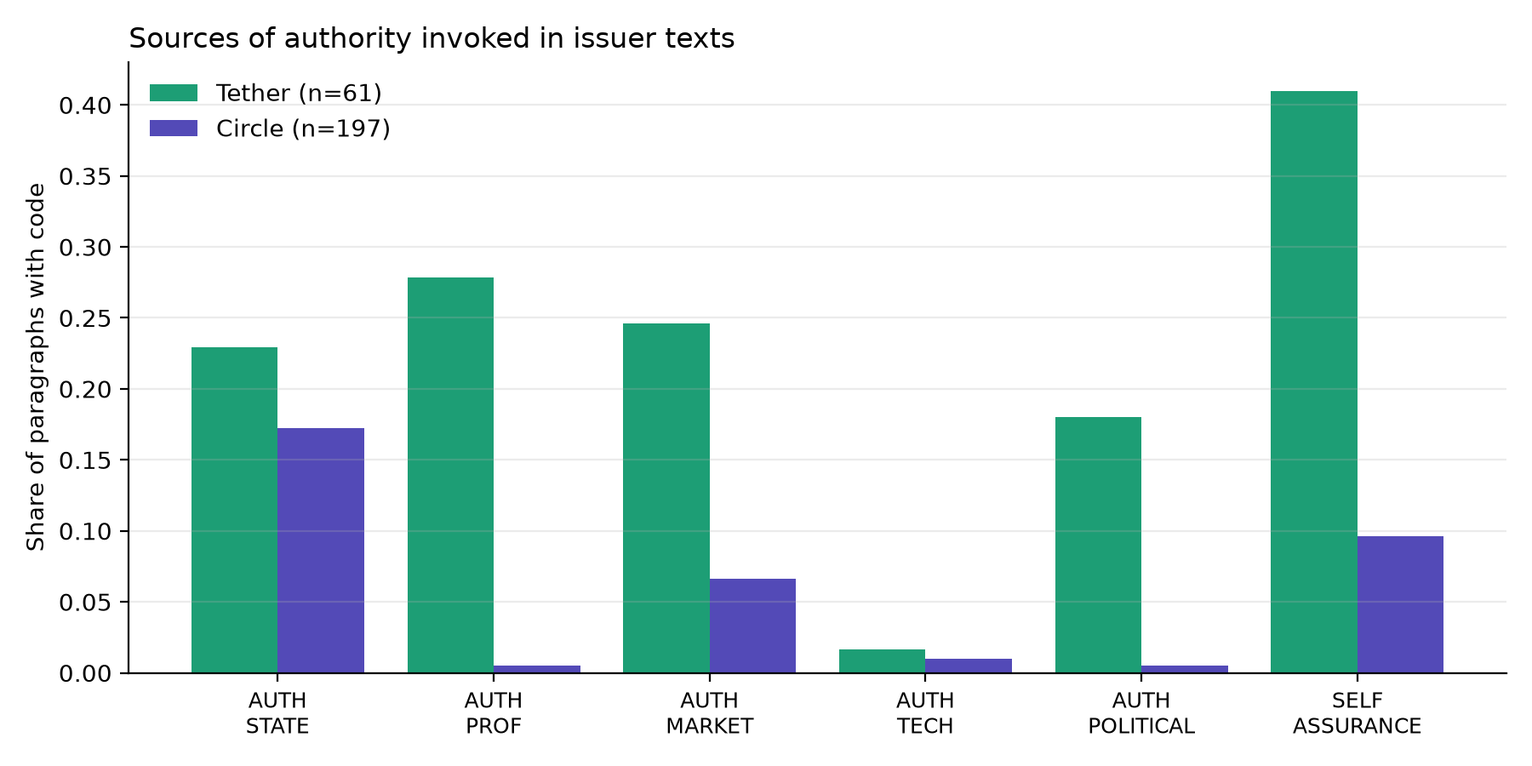
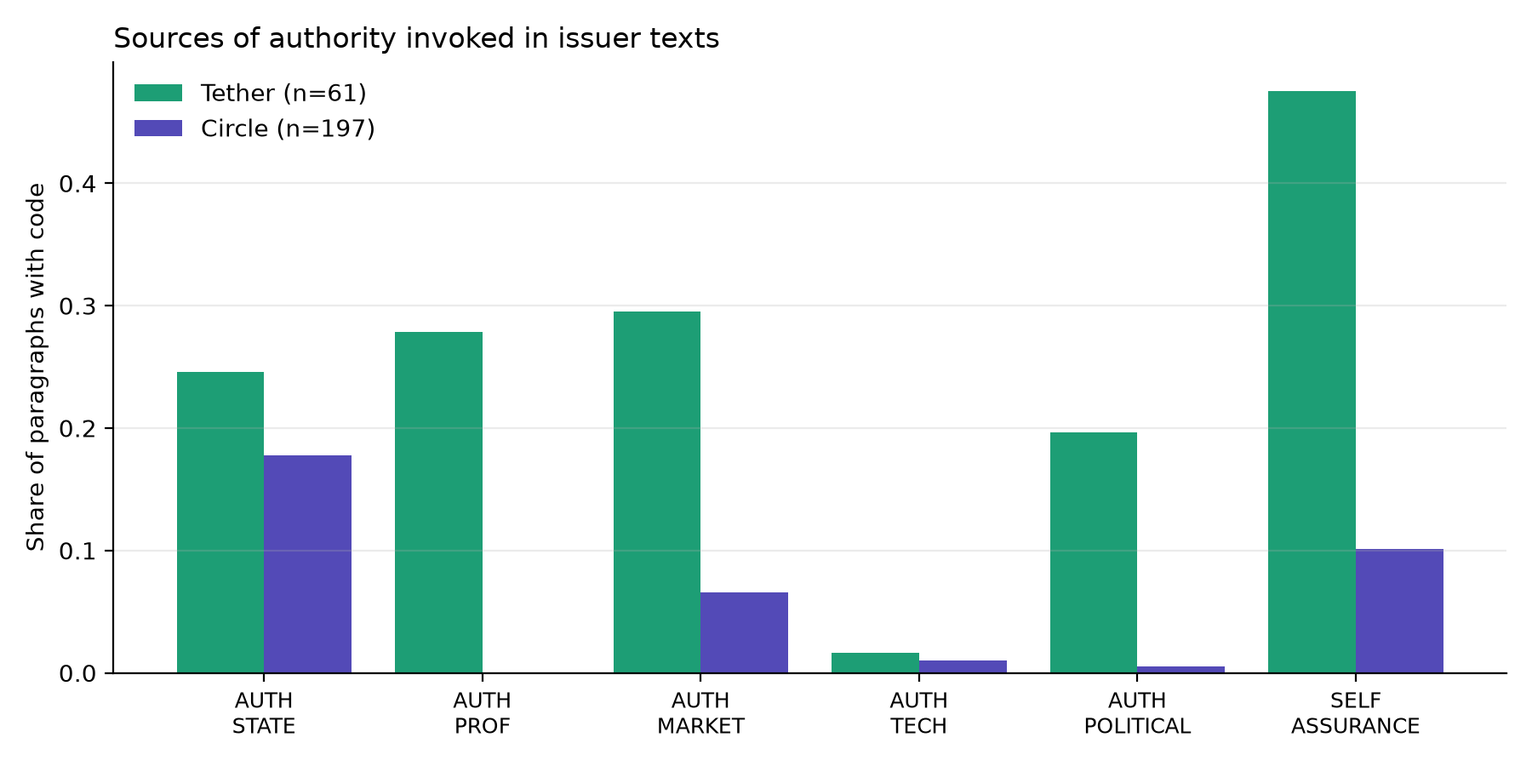
Analysis uses LLM codes for all segments; human codes validate only

diff --git a/scripts/06_analysis.py b/scripts/06_analysis.py
@@ -1,10 +1,11 @@
 """Step 6: descriptive analysis of the coded segments.
 
 Usage:
-    python scripts/06_analysis.py
+    python scripts/06_analysis.py               # LLM codes everywhere (default)
+    python scripts/06_analysis.py --use-human   # replace with manual codes; only after reconciling disagreements
 
 Input : data/segments.csv, data/coded_llm.csv, data/events.csv,
-        analysis/manual_coding.csv (optional: your codes replace the LLM codes for those segments)
+        analysis/manual_coding.csv (read only with --use-human)
 Output: analysis/summary_tables.md
         analysis/examples_by_code.md      paragraphs to read closely (step 7)
         analysis/figures/authority_by_company.png
@@ -13,6 +14,8 @@ Output: analysis/summary_tables.md
 These are descriptive shares from a small corpus. They point you to where to read closely;
 they are not statistical tests.
 """
+import argparse
+
 import matplotlib
 
 matplotlib.use("Agg")
@@ -46,13 +49,22 @@ def assign_phases(df: pd.DataFrame) -> pd.DataFrame:
     return df, labels
 
 
-def load_coded(codes):
+def load_coded(codes, use_human=False):
+    """LLM codes for every segment (one consistent coder).
+
+    The manual sample is for validation only (05_agreement.py). Pass --use-human to
+    overwrite LLM codes with manual codes, but only after you have reconciled the
+    disagreements; otherwise two coders with different thresholds get mixed.
+    """
     segs = pd.read_csv(SEGMENTS)
     llm = pd.read_csv(CODED_LLM)
     if (llm.get("model") == "DRY_RUN").any():
         print("WARNING: using DRY_RUN codes. Figures are for testing the pipeline only.")
     df = segs.merge(llm[["segment_id", *codes, "uncertain"]], on="segment_id", how="inner")
     df["source"] = "llm"
+    if not use_human:
+        print("Using LLM codes for all segments; manual codes are kept for validation only.")
+        return df
     if MANUAL.exists():
         man = pd.read_csv(MANUAL)
         man[codes] = man[codes].apply(pd.to_numeric, errors="coerce")
@@ -138,7 +150,11 @@ def examples(df, codes, k=4):
 def main():
     codes = code_names(load_codebook())
     FIGURES.mkdir(parents=True, exist_ok=True)
-    df = load_coded(codes)
+    ap = argparse.ArgumentParser()
+    ap.add_argument("--use-human", action="store_true",
+                    help="replace LLM codes with manual codes (only after reconciling disagreements)")
+    args = ap.parse_args()
+    df = load_coded(codes, use_human=args.use_human)
     df, phase_labels = assign_phases(df)
     phase_order = ["P0", *[p for p in phase_labels if p != "P0"]]
 
@@ -150,7 +166,7 @@ def main():
 
     md = ["# Summary tables", "",
           f"Coded paragraphs: {len(df)} (official issuer texts {len(issuer)}, CEO posts on X {len(xposts)}, "
-          f"attestation reports {len(attest)}).",
+          f"attestation reports {len(attest)}). Codes: {'human where coded, LLM elsewhere' if args.use_human else 'LLM for every segment'}.",
           "Values are the share of paragraphs carrying each code.", "",
           "## Phases", *[f"- {v}" for v in phase_labels.values()], "",
           "## Official issuer texts by company", md_table(share_table(issuer, "company", codes)), "",

diff --git a/analysis/examples_by_code.md b/analysis/examples_by_code.md
@@ -4,24 +4,22 @@ Up to four paragraphs per code and company. Human-coded paragraphs are listed fi
 
 ## AUTH_STATE
 ### Circle
-- **C-YR-2025-p014** (2025-12-31, blog, human): Regulatory clarity has not stopped at US borders. In 2025, Circle remained the only major global issuer with both dollar- and euro-denominated stablecoins compliant with the European Union’s Markets in Crypto-Assets (MiCA) regime, positioning USDC and EURC as compliant digital assets across the 27-member bloc. In the Middle East, the Dubai Financial Services Authority (DFSA) recognized USDC and EURC as the first stablecoins approved under its crypto token regime, enabling thousands of firms in the Dubai International Financial Centre (DIFC) to integrate them into payments, treasury, and digital asset services. And, Circle secured a full Financial Services Permission (FSP) from Abu Dhabi Global Market’s Financial Services Regulatory Authority , allowing us to operate as a regulated money services provider and expand USDC-based payment and settlement tools across the UAE.
-- **C-PR-20260710-p008** (2026-07-10, press_release, human): Circle submitted its application to the OCC on June 30, 2025 and received a conditional approval in December, 2025, building on its long-standing commitment to regulatory engagement. In 2015, Circle became the first company to receive a BitLicense from the New York Department of Financial Services and remains engaged with the leading U.S. state digital asset regulator. In 2024, Circle became the first global stablecoin issuer to comply with the European Union’s Markets in Crypto-Assets framework. Circle also holds licenses in the UK, Singapore, and Bermuda, and has met Canadian Value-Referenced Crypto Asset requirements. In 2025, Circle secured a license from Abu Dhabi Global Market’s Financial Services Regulatory Authority.
 - **C-PR-20251212-p002** (2025-12-12, press_release, llm): NEW YORK — December 12, 2025 — Circle Internet Group , Inc. (NYSE: CRCL), one of the world’s leading internet financial platform companies, today announced that it has received conditional approval from the Office of the Comptroller of the Currency (OCC) to establish a national trust bank, First National Digital Currency Bank, N.A.
 - **C-PR-20251212-p003** (2025-12-12, press_release, llm): Once fully approved, First National Digital Currency Bank would operate as a federally regulated trust bank, subject to OCC oversight, and would oversee the management of the USDC Reserve on behalf of Circle’s U.S. issuer. The conditional approval represents an important milestone in Circle’s efforts to further strengthen the infrastructure supporting USDC – the world’s largest regulated stablecoin – and meet requirements under the GENIUS Act, which became U.S. law in July 2025.
+- **C-PR-20251212-p004** (2025-12-12, press_release, llm): “Establishing a national digital currency trust bank of this kind deepens Circle’s longstanding commitment to the highest standards of trust and compliance,” said Jeremy Allaire, Co-Founder, Chairman, and CEO of Circle. “As a public company, we’re focused on operating under rigorous regulatory oversight and building the infrastructure that allows digital dollars like USDC to become a core part of global finance. This important milestone will give the world’s leading institutions greater clarity and confidence to build on Circle’s platform as stablecoins and blockchain technology move rapidly into the mainstream.”
+- **C-PR-20251212-p005** (2025-12-12, press_release, llm): As a national trust bank, Circle’s First National Digital Currency Bank would enhance the safety and regulatory oversight of the USDC Reserve, while enabling Circle to offer fiduciary digital asset custody and related services to institutional customers. The charter would also help Circle further align its U.S. operations with global regulatory standards for stablecoins and digital financial infrastructure.
 ### Tether
-- **T-PR-20250912-p002** (2025-09-12, press_release, human): 12 September 2025 – Tether , the largest company in the digital asset ecosystem, today unveiled USA₮, its planned U.S.-regulated, dollar-backed stablecoin, along with the announcement and appointment of Bo Hines as Tether USA₮’s future Chief Executive Officer. The simultaneous introduction of both the token and CEO reflects Tether’s commitment to delivering a U.S.-regulated dollar-backed stablecoin backed by transparent reserves, strong governance, and American leadership from day one.
-- **T-PR-20250912-p006** (2025-09-12, press_release, human): USA₮ will be designed to comply with the recently enacted GENIUS Act, the landmark U.S. legislation governing stablecoin issuance, marking a major step toward aligning digital asset innovation with the country’s established leadership in financial regulation. USA₮ will leverage the Hadron by Tether technology, the most advanced real-world-assets tokenization platform. Anchorage Digital, the first and only federally regulated crypto bank, will be the GENIUS Act-compliant issuer. Together, they offer a solution for Tether USA₮ to launch fully regulated digital dollars. The new token will tap into the unmatched global distribution network of Tether Group. Cantor Fitzgerald will act as the designated reserve custodian and serve as preferred primary dealer.
+- **T-PR-20250912-p002** (2025-09-12, press_release, llm): 12 September 2025 – Tether , the largest company in the digital asset ecosystem, today unveiled USA₮, its planned U.S.-regulated, dollar-backed stablecoin, along with the announcement and appointment of Bo Hines as Tether USA₮’s future Chief Executive Officer. The simultaneous introduction of both the token and CEO reflects Tether’s commitment to delivering a U.S.-regulated dollar-backed stablecoin backed by transparent reserves, strong governance, and American leadership from day one.
 - **T-PR-20250912-p005** (2025-09-12, press_release, llm): USA₮ will be established as a U.S.-regulated stablecoin, designed to provide businesses and institutions with a digital alternative to cash and traditional payment rails. Governed by strict regulatory standards and backed by transparent reserves, USA₮ will set a new benchmark for compliance and accessibility for the U.S. stablecoin industry.
+- **T-PR-20250912-p006** (2025-09-12, press_release, llm): USA₮ will be designed to comply with the recently enacted GENIUS Act, the landmark U.S. legislation governing stablecoin issuance, marking a major step toward aligning digital asset innovation with the country’s established leadership in financial regulation. USA₮ will leverage the Hadron by Tether technology, the most advanced real-world-assets tokenization platform. Anchorage Digital, the first and only federally regulated crypto bank, will be the GENIUS Act-compliant issuer. Together, they offer a solution for Tether USA₮ to launch fully regulated digital dollars. The new token will tap into the unmatched global distribution network of Tether Group. Cantor Fitzgerald will act as the designated reserve custodian and serve as preferred primary dealer.
 - **T-PR-20250912-p008** (2025-09-12, press_release, llm): Bo Hines brings a distinctive blend of legal, business, and policy expertise to his role as CEO of USA₮. As both an entrepreneur and the former Executive Director of the White House Crypto Council, he has operated at the nexus of governance, law, and financial innovation. His appointment underscores Tether’s commitment to launching USA₮ under U.S.-based leadership with a clear understanding of American regulatory priorities.
 
 ## AUTH_PROF
-### Circle
-- **C-YR-2025-p019** (2025-12-31, blog, human): In the EU, Deutsche Börse Group , a leading European financial markets infrastructure provider, with Eurex, one of the world’s largest derivatives exchanges, committed to explore integrating USDC and EURC into trading, clearing, settlement, and custody flows to reduce settlement risk and increase operational resilience at the heart of European capital markets. This collaboration underscores that MiCA-compliant stablecoins are increasingly being treated as institutional-grade settlement instruments in European markets.
 ### Tether
-- **T-PR-20260324-p009** (2026-03-24, press_release, human): “The Big Four Firm was selected through a competitive process because the organisation is already operating at Big Four audit standard; the audit will be delivered,” said Simon McWilliams, Chief Financial Officer of Tether .
-- **T-PR-20260813-p005** (2026-08-13, press_release, human): “This is a defining moment for the stablecoin industry,” said Paolo Ardoino, CEO of Tether. “For years, some detractors said an audit of Tether could not be completed. They said the Company refused to subject itself to the most rigorous scrutiny. We have once again proven them wrong. Completing our financial statement audit sets a new standard for the industry and reflects the leadership we’ve brought to this market from the start.”
-- **T-PR-20260813-p008** (2026-08-13, press_release, human): Tether has provided regular independent attestations of the assets backing its issued tokens for years. The completion of a financial statement audit represents a fundamental step forward in the Company’s financial reporting and the fulfillment of one of its longest-held commitments.
 - **T-PR-20260324-p001** (2026-03-24, press_release, llm): 24 March 2026 – Tether , the largest company in the digital asset industry, today announced that it has entered a formal engagement with a Big Four accounting firm to complete its first full independent financial statement audit, which is slated to be the biggest ever inaugural audit in the history of financial markets. At a scale rarely seen outside the world’s largest sovereign institutions and encompassing a uniquely complex mix of digital assets, traditional reserves, and tokenised liabilities, this audit marks a defining moment not only for Tether, but for the evolution of modern finance itself. This milestone reinforces Tether’s role as the category leader and its commitment to delivering the highest level of transparency, stability, and assurance available in global finance.
+- **T-PR-20260324-p003** (2026-03-24, press_release, llm): A full audit by a Big Four firm is among the most rigorous and globally recognized forms of financial assessment. For Tether, the engagement of a Big Four underscores its commitment to providing deep assurance that USD₮ is fully backed, highly liquid, and operated with world-class risk management.
+- **T-PR-20260324-p004** (2026-03-24, press_release, llm): By formally engaging a Big Four audit firm, Tether is taking one of the most important steps, strengthening its position as the global leader in transparency, assurance, and regulatory readiness.
+- **T-PR-20260324-p005** (2026-03-24, press_release, llm): Currently, attestations are standard practice among all stablecoin issuers, but Tether is moving beyond this benchmark toward a full audit. During the initial engagement onboarding process, which concluded a few weeks ago, audit firms conducted a comprehensive assessment of Tether’s systems, internal controls, and financial reporting while engaging closely with a broad range of stakeholders. Given Tether’s scale and its central role in the digital asset ecosystem, the process attracted interest and participation from several audit firms. This level of engagement reflects the significance of the work and underscores why this review is widely viewed as one of the most important and closely examined initiatives the industry has undertaken to date.
 
 ## AUTH_MARKET
 ### Circle
@@ -30,10 +28,10 @@ Up to four paragraphs per code and company. Human-coded paragraphs are listed fi
 - **C-YR-2025-p031** (2025-12-31, blog, llm): The increased use of digital assets is seen clearly with USDC, EURC, and USYC. Over the course of 2025, USDC’s market capitalization expanded significantly, lifetime onchain transaction volume climbed higher into the tens of trillions of dollars, support broadened across dozens of blockchain networks, and our industry-leading liquidity continued to deepen. At the same time, EURC solidified its place as the largest euro-denominated stablecoin by market capitalization under Europe’s MiCA framework, while USYC has functioned as effective collateral management. Increasingly, these digital assets hold the potential to serve as foundational primitives for global finance — supporting payments and FX, streamlining treasury operations, serving as collateral, and more.
 - **C-YR-2025-p032** (2025-12-31, blog, llm): USDC had a standout 2025. Its market cap rose to $77 billion as of December 23, 2025, up from $44 billion on January 1, 2025, as adoption increased across crypto capital markets, institutional, enterprise, and consumer use cases . Native USDC was added to XRP Ledger , while native USDC and CCTP expanded to Aptos , Codex , Hyperliquid , Ink , Linea , Monad , Plume , Sei , Sonic , Starknet , Unichain , World Chain , and XDC Network , positioning USDC as canonical dollar liquidity on major Layer-1 (L1) and Layer-2 (L2) blockchains. Meanwhile, CCTP made USDC effectively “teleportable” across an increasing number of supported blockchains. That added crosschain functionality supported increased usage, which showed up in onchain data: as of December 23, 2025, USDC’s lifetime onchain transaction volume exceeded $50 trillion, with native support across 30 blockchains and CCTP enabling seamless crosschain flows of USDC.
 ### Tether
-- **T-PR-20250912-p009** (2025-09-12, press_release, human): “For over a decade, Tether – as the creator of the stablecoin industry – has issued USD₮, the backbone of the digital economy, and today the U.S dollar stablecoin for hundreds of millions of underserved people living in emerging markets, proving that digital assets can deliver trust, resilience, and freedom on a global scale. Today, with the introduction of USA₮ and Bo Hines’s appointment as future CEO of Tether USA₮, we are taking the next natural step, bringing that same strength to the U.S. under a world-leading U.S.-regulatory framework,” said Paolo Ardoino, CEO of Tether . “Tether is already one of the largest holders of U.S. Treasuries because we believe deeply in the enduring power of the dollar. USA₮ is our commitment to ensuring that the dollar not only remains dominant in the digital age, but thrives – through products that are more transparent, more resilient, more accessible, and more unstoppable than ever before.”
-- **T-PR-20260324-p002** (2026-03-24, press_release, human): With USD₮ market capitalization at over $184 billion and a global user base of more than 550 million, Tether is setting the standard for responsible, large-scale digital asset infrastructure. The audit engagement reflects the company’s longstanding dedication to global accessibility, financial empowerment, and the unrestricted movement of value across borders, contributing to a more stable society globally.
 - **T-PR-20250912-p003** (2025-09-12, press_release, llm): As the most widely used stablecoin in the world, Tether’s USD₮ token has become the infrastructure powering the digital asset economy, with a market capitalization exceeding $169B and daily transactional volumes that outpace even the traditional behemoths of the payments sector like the top credit card and remittances companies. Moreover, USD₮ has grown to be globally known as the digital dollar for emerging markets and developing countries, reaching nearly 500 million users as of today, with a deep focus on the underbanked, unbanked, and underserved – the communities left behind by the traditional financial sector for being too poor to pay the high fees imposed by those institutions.
 - **T-PR-20250912-p004** (2025-09-12, press_release, llm): Tether Group has also made the news for its high profitability, reaching more than $13B in 2024 , and is on track to be similarly positive in 2025. The Group is also among the largest holders of U.S. Treasuries, ranked 18th, ahead of Germany, South Korea, and Australia. This unmatched scale has made USD₮ the most widely adopted stablecoin globally.
+- **T-PR-20250912-p006** (2025-09-12, press_release, llm): USA₮ will be designed to comply with the recently enacted GENIUS Act, the landmark U.S. legislation governing stablecoin issuance, marking a major step toward aligning digital asset innovation with the country’s established leadership in financial regulation. USA₮ will leverage the Hadron by Tether technology, the most advanced real-world-assets tokenization platform. Anchorage Digital, the first and only federally regulated crypto bank, will be the GENIUS Act-compliant issuer. Together, they offer a solution for Tether USA₮ to launch fully regulated digital dollars. The new token will tap into the unmatched global distribution network of Tether Group. Cantor Fitzgerald will act as the designated reserve custodian and serve as preferred primary dealer.
+- **T-PR-20250912-p009** (2025-09-12, press_release, llm): “For over a decade, Tether – as the creator of the stablecoin industry – has issued USD₮, the backbone of the digital economy, and today the U.S dollar stablecoin for hundreds of millions of underserved people living in emerging markets, proving that digital assets can deliver trust, resilience, and freedom on a global scale. Today, with the introduction of USA₮ and Bo Hines’s appointment as future CEO of Tether USA₮, we are taking the next natural step, bringing that same strength to the U.S. under a world-leading U.S.-regulatory framework,” said Paolo Ardoino, CEO of Tether . “Tether is already one of the largest holders of U.S. Treasuries because we believe deeply in the enduring power of the dollar. USA₮ is our commitment to ensuring that the dollar not only remains dominant in the digital age, but thrives – through products that are more transparent, more resilient, more accessible, and more unstoppable than ever before.”
 
 ## AUTH_TECH
 ### Circle
@@ -46,41 +44,41 @@ Up to four paragraphs per code and company. Human-coded paragraphs are listed fi
 ### Circle
 - **C-PR-20260710-p007** (2026-07-10, press_release, llm): As an OCC-chartered national trust bank, Circle National Trust advances USDC’s role as trusted, federally regulated digital dollar infrastructure for payments, settlement, and capital markets activity, supporting the role of the U.S. dollar in an increasingly digital global economy.
 ### Tether
-- **T-PR-20250912-p007** (2025-09-12, press_release, human): The announcement of USA₮ and Bo Hines’s appointment as future CEO represents the natural next step in Tether’s mission: reinforcing U.S. dollar dominance in the digital era while delivering the highest standards of transparency, compliance, and financial resilience.
-- **T-PR-20250912-p009** (2025-09-12, press_release, human): “For over a decade, Tether – as the creator of the stablecoin industry – has issued USD₮, the backbone of the digital economy, and today the U.S dollar stablecoin for hundreds of millions of underserved people living in emerging markets, proving that digital assets can deliver trust, resilience, and freedom on a global scale. Today, with the introduction of USA₮ and Bo Hines’s appointment as future CEO of Tether USA₮, we are taking the next natural step, bringing that same strength to the U.S. under a world-leading U.S.-regulatory framework,” said Paolo Ardoino, CEO of Tether . “Tether is already one of the largest holders of U.S. Treasuries because we believe deeply in the enduring power of the dollar. USA₮ is our commitment to ensuring that the dollar not only remains dominant in the digital age, but thrives – through products that are more transparent, more resilient, more accessible, and more unstoppable than ever before.”
-- **T-PR-20260127-p012** (2026-01-27, press_release, human): Tether’s support for USA₮ underscores its commitment to driving U.S. dominance and leadership in the evolving digital asset economy. As part of the broader Tether ecosystem, USA₮ will set a new benchmark in the U.S. for utility-driven stablecoins designed to deliver long-term value, strong governance, and real-world applications.
 - **T-PR-20250912-p001** (2025-09-12, press_release, llm): The introduction of USA₮ and appointment of Bo Hines marks Tether’s next chapter in strengthening U.S. dollar dominance through transparency and innovation
+- **T-PR-20250912-p002** (2025-09-12, press_release, llm): 12 September 2025 – Tether , the largest company in the digital asset ecosystem, today unveiled USA₮, its planned U.S.-regulated, dollar-backed stablecoin, along with the announcement and appointment of Bo Hines as Tether USA₮’s future Chief Executive Officer. The simultaneous introduction of both the token and CEO reflects Tether’s commitment to delivering a U.S.-regulated dollar-backed stablecoin backed by transparent reserves, strong governance, and American leadership from day one.
+- **T-PR-20250912-p007** (2025-09-12, press_release, llm): The announcement of USA₮ and Bo Hines’s appointment as future CEO represents the natural next step in Tether’s mission: reinforcing U.S. dollar dominance in the digital era while delivering the highest standards of transparency, compliance, and financial resilience.
+- **T-PR-20250912-p009** (2025-09-12, press_release, llm): “For over a decade, Tether – as the creator of the stablecoin industry – has issued USD₮, the backbone of the digital economy, and today the U.S dollar stablecoin for hundreds of millions of underserved people living in emerging markets, proving that digital assets can deliver trust, resilience, and freedom on a global scale. Today, with the introduction of USA₮ and Bo Hines’s appointment as future CEO of Tether USA₮, we are taking the next natural step, bringing that same strength to the U.S. under a world-leading U.S.-regulatory framework,” said Paolo Ardoino, CEO of Tether . “Tether is already one of the largest holders of U.S. Treasuries because we believe deeply in the enduring power of the dollar. USA₮ is our commitment to ensuring that the dollar not only remains dominant in the digital age, but thrives – through products that are more transparent, more resilient, more accessible, and more unstoppable than ever before.”
 
 ## SELF_ASSURANCE
 ### Circle
-- **C-AL-2025-p012** (2026-03-09, annual_letter, human): Circle sits at the center of this transformation. Our role is to provide trusted, regulated, and globally interoperable infrastructure that allows this new economic layer of the internet to scale responsibly. We believe the transition now underway will unlock orders-of-magnitude increases in economic velocity, participation, and innovation—just as prior internet platform shifts reshaped media, commerce, and communications.
 - **C-PR-20251212-p004** (2025-12-12, press_release, llm): “Establishing a national digital currency trust bank of this kind deepens Circle’s longstanding commitment to the highest standards of trust and compliance,” said Jeremy Allaire, Co-Founder, Chairman, and CEO of Circle. “As a public company, we’re focused on operating under rigorous regulatory oversight and building the infrastructure that allows digital dollars like USDC to become a core part of global finance. This important milestone will give the world’s leading institutions greater clarity and confidence to build on Circle’s platform as stablecoins and blockchain technology move rapidly into the mainstream.”
 - **C-PR-20251212-p008** (2025-12-12, press_release, llm): Circle (NYSE: CRCL) is one of the world’s leading internet financial platform companies, building the foundation of a more open, global economy through digital assets, payment applications, and programmable blockchain infrastructure. Circle’s platform includes the world’s largest regulated stablecoin network anchored by USDC, Circle Payments Network for global money movement, and Arc, an enterprise-grade blockchain designed to become the Economic OS for the internet. Enterprises, financial institutions, and developers use Circle to power trusted, internet-scale financial innovation. Learn more at circle.com .
 - **C-YR-2025-p002** (2025-12-31, blog, llm): Circle emerged as a full-stack platform for internet-native finance, combining trusted digital assets (USDC, EURC, USYC), real-world applications, and Arc blockchain, as the Economic OS for the internet.
+- **C-YR-2025-p007** (2025-12-31, blog, llm): Against this backdrop, Circle’s IPO was a defining step in our journey, reinforcing our long-standing commitment to transparency, strong governance, and rigorous risk management. Our recent conditional approval for a national trust charter further extends that commitment and signals our intention to operate at the core of regulated financial markets for digital money, strengthening institutions’, businesses’, and builders’ confidence in Circle’s technology.
 ### Tether
-- **T-PR-20260324-p002** (2026-03-24, press_release, human): With USD₮ market capitalization at over $184 billion and a global user base of more than 550 million, Tether is setting the standard for responsible, large-scale digital asset infrastructure. The audit engagement reflects the company’s longstanding dedication to global accessibility, financial empowerment, and the unrestricted movement of value across borders, contributing to a more stable society globally.
-- **T-PR-20260324-p015** (2026-03-24, press_release, human): These efforts have supported the rise of USD₮ as the most trusted, widely used, and mission-driven digital currency on the planet.
 - **T-PR-20250912-p001** (2025-09-12, press_release, llm): The introduction of USA₮ and appointment of Bo Hines marks Tether’s next chapter in strengthening U.S. dollar dominance through transparency and innovation
+- **T-PR-20250912-p002** (2025-09-12, press_release, llm): 12 September 2025 – Tether , the largest company in the digital asset ecosystem, today unveiled USA₮, its planned U.S.-regulated, dollar-backed stablecoin, along with the announcement and appointment of Bo Hines as Tether USA₮’s future Chief Executive Officer. The simultaneous introduction of both the token and CEO reflects Tether’s commitment to delivering a U.S.-regulated dollar-backed stablecoin backed by transparent reserves, strong governance, and American leadership from day one.
 - **T-PR-20250912-p005** (2025-09-12, press_release, llm): USA₮ will be established as a U.S.-regulated stablecoin, designed to provide businesses and institutions with a digital alternative to cash and traditional payment rails. Governed by strict regulatory standards and backed by transparent reserves, USA₮ will set a new benchmark for compliance and accessibility for the U.S. stablecoin industry.
+- **T-PR-20250912-p007** (2025-09-12, press_release, llm): The announcement of USA₮ and Bo Hines’s appointment as future CEO represents the natural next step in Tether’s mission: reinforcing U.S. dollar dominance in the digital era while delivering the highest standards of transparency, compliance, and financial resilience.
 
 ## HEDGE_PENDING
 ### Circle
-- **C-YR-2025-p019** (2025-12-31, blog, human): In the EU, Deutsche Börse Group , a leading European financial markets infrastructure provider, with Eurex, one of the world’s largest derivatives exchanges, committed to explore integrating USDC and EURC into trading, clearing, settlement, and custody flows to reduce settlement risk and increase operational resilience at the heart of European capital markets. This collaboration underscores that MiCA-compliant stablecoins are increasingly being treated as institutional-grade settlement instruments in European markets.
 - **C-PR-20251212-p001** (2025-12-12, press_release, llm): Conditional approval marks key milestone toward GENIUS Act compliance and strengthens USDC infrastructure
 - **C-PR-20251212-p003** (2025-12-12, press_release, llm): Once fully approved, First National Digital Currency Bank would operate as a federally regulated trust bank, subject to OCC oversight, and would oversee the management of the USDC Reserve on behalf of Circle’s U.S. issuer. The conditional approval represents an important milestone in Circle’s efforts to further strengthen the infrastructure supporting USDC – the world’s largest regulated stablecoin – and meet requirements under the GENIUS Act, which became U.S. law in July 2025.
 - **C-PR-20251212-p005** (2025-12-12, press_release, llm): As a national trust bank, Circle’s First National Digital Currency Bank would enhance the safety and regulatory oversight of the USDC Reserve, while enabling Circle to offer fiduciary digital asset custody and related services to institutional customers. The charter would also help Circle further align its U.S. operations with global regulatory standards for stablecoins and digital financial infrastructure.
+- **C-YR-2025-p007** (2025-12-31, blog, llm): Against this backdrop, Circle’s IPO was a defining step in our journey, reinforcing our long-standing commitment to transparency, strong governance, and rigorous risk management. Our recent conditional approval for a national trust charter further extends that commitment and signals our intention to operate at the core of regulated financial markets for digital money, strengthening institutions’, businesses’, and builders’ confidence in Circle’s technology.
 ### Tether
-- **T-PR-20250912-p006** (2025-09-12, press_release, human): USA₮ will be designed to comply with the recently enacted GENIUS Act, the landmark U.S. legislation governing stablecoin issuance, marking a major step toward aligning digital asset innovation with the country’s established leadership in financial regulation. USA₮ will leverage the Hadron by Tether technology, the most advanced real-world-assets tokenization platform. Anchorage Digital, the first and only federally regulated crypto bank, will be the GENIUS Act-compliant issuer. Together, they offer a solution for Tether USA₮ to launch fully regulated digital dollars. The new token will tap into the unmatched global distribution network of Tether Group. Cantor Fitzgerald will act as the designated reserve custodian and serve as preferred primary dealer.
-- **T-PR-20260324-p009** (2026-03-24, press_release, human): “The Big Four Firm was selected through a competitive process because the organisation is already operating at Big Four audit standard; the audit will be delivered,” said Simon McWilliams, Chief Financial Officer of Tether .
+- **T-PR-20250912-p002** (2025-09-12, press_release, llm): 12 September 2025 – Tether , the largest company in the digital asset ecosystem, today unveiled USA₮, its planned U.S.-regulated, dollar-backed stablecoin, along with the announcement and appointment of Bo Hines as Tether USA₮’s future Chief Executive Officer. The simultaneous introduction of both the token and CEO reflects Tether’s commitment to delivering a U.S.-regulated dollar-backed stablecoin backed by transparent reserves, strong governance, and American leadership from day one.
 - **T-PR-20250912-p005** (2025-09-12, press_release, llm): USA₮ will be established as a U.S.-regulated stablecoin, designed to provide businesses and institutions with a digital alternative to cash and traditional payment rails. Governed by strict regulatory standards and backed by transparent reserves, USA₮ will set a new benchmark for compliance and accessibility for the U.S. stablecoin industry.
+- **T-PR-20250912-p006** (2025-09-12, press_release, llm): USA₮ will be designed to comply with the recently enacted GENIUS Act, the landmark U.S. legislation governing stablecoin issuance, marking a major step toward aligning digital asset innovation with the country’s established leadership in financial regulation. USA₮ will leverage the Hadron by Tether technology, the most advanced real-world-assets tokenization platform. Anchorage Digital, the first and only federally regulated crypto bank, will be the GENIUS Act-compliant issuer. Together, they offer a solution for Tether USA₮ to launch fully regulated digital dollars. The new token will tap into the unmatched global distribution network of Tether Group. Cantor Fitzgerald will act as the designated reserve custodian and serve as preferred primary dealer.
 - **T-PR-20250912-p010** (2025-09-12, press_release, llm): “I am honored to lead USA₮ as we prepare for its launch, creating a U.S.-regulated dollar-backed stablecoin designed to strengthen America’s role in the global economy,” said Bo Hines, CEO-Designate of Tether USA₮ . “By building USA₮ with compliance, transparency, and innovation at its core, we are ensuring that the dollar remains the foundation of trust in the digital asset space.”
 
 ## REBUTTAL
 ### Tether
-- **T-MQ-20251126-p001** (2025-11-26, media_quote, human): Tether said in a statement Wednesday that it "strongly disagrees" with S&P Global's rating.
-- **T-X-20251126-p003** (2025-11-26, x_post, human): The classical rating models built for legacy financial institutions, historically led private and institutional investors to invest their wealth into companies that despite being attributed investment grade ratings collapsed pushing worldwide regulators to challenge such models, the independence and objective assessment of all major rating agencies.
-- **T-PR-20260813-p005** (2026-08-13, press_release, human): “This is a defining moment for the stablecoin industry,” said Paolo Ardoino, CEO of Tether. “For years, some detractors said an audit of Tether could not be completed. They said the Company refused to subject itself to the most rigorous scrutiny. We have once again proven them wrong. Completing our financial statement audit sets a new standard for the industry and reflects the leadership we’ve brought to this market from the start.”
+- **T-MQ-20251126-p001** (2025-11-26, media_quote, llm): Tether said in a statement Wednesday that it "strongly disagrees" with S&P Global's rating.
+- **T-X-20251126-p003** (2025-11-26, x_post, llm): The classical rating models built for legacy financial institutions, historically led private and institutional investors to invest their wealth into companies that despite being attributed investment grade ratings collapsed pushing worldwide regulators to challenge such models, the independence and objective assessment of all major rating agencies.
 - **T-X-20251126-p004** (2025-11-26, x_post, llm): The traditional finance propaganda machine is growing worried when any company tries to defy the force of gravity of the broken financial system. No company should dare to decouple itself from it.
+- **T-X-20251130-p006** (2025-11-30, x_post, llm): S&P made the same mistake of not considering the additional Group Equity nor the ~500M in monthly base profits generated by U.S Treasury yields alone.
 
 ## CONFIRMATION
 ### Circle
@@ -89,4 +87,5 @@ Up to four paragraphs per code and company. Human-coded paragraphs are listed fi
 - **C-YR-2025-p035** (2025-12-31, blog, llm): These developments reinforced USDC’s existing structural advantage — gained from Circle’s USDC reserve transparency and regulatory alignment — and helped to position USDC as the asset underpinning high-integrity liquidity across the emerging internet-native financial system.
 - **C-YR-2025-p106** (2025-12-31, blog, llm): For years, we have invested in our mission to raise global economic prosperity through the frictionless exchange of value by building trusted digital assets, resilient infrastructure, and an ecosystem of partners around them. We are committed to continue playing a constructive role as a neutral issuer of trusted digital money, a builder of institutional-grade infrastructure, and a partner to those creating the next generation of financial applications. The work we undertook in 2025 — from advancing regulatory milestones and launching new products to driving ecosystem growth and infrastructure innovation — marked a pivotal validation of that hard-fought approach. As we look ahead, we are focused on scaling this impact, ensuring that the benefits of an open, inclusive, and efficient internet financial system reach ever more people around the world.
 ### Tether
-- **T-PR-20260324-p009** (2026-03-24, press_release, human): “The Big Four Firm was selected through a competitive process because the organisation is already operating at Big Four audit standard; the audit will be delivered,” said Simon McWilliams, Chief Financial Officer of Tether .
+- **T-PR-20260324-p009** (2026-03-24, press_release, llm): “The Big Four Firm was selected through a competitive process because the organisation is already operating at Big Four audit standard; the audit will be delivered,” said Simon McWilliams, Chief Financial Officer of Tether .
+- **T-PR-20260813-p008** (2026-08-13, press_release, llm): Tether has provided regular independent attestations of the assets backing its issued tokens for years. The completion of a financial statement audit represents a fundamental step forward in the Company’s financial reporting and the fulfillment of one of its longest-held commitments.

diff --git a/analysis/summary_tables.md b/analysis/summary_tables.md
@@ -1,6 +1,6 @@
 # Summary tables
 
-Coded paragraphs: 271 (official issuer texts 258, CEO posts on X 13, attestation reports 0).
+Coded paragraphs: 271 (official issuer texts 258, CEO posts on X 13, attestation reports 0). Codes: LLM for every segment.
 Values are the share of paragraphs carrying each code.
 
 ## Phases
@@ -13,17 +13,17 @@ Values are the share of paragraphs carrying each code.
 ## Official issuer texts by company
 | company | n_segments | AUTH_STATE | AUTH_PROF | AUTH_MARKET | AUTH_TECH | AUTH_POLITICAL | SELF_ASSURANCE | HEDGE_PENDING | REBUTTAL | CONFIRMATION |
 |---|---|---|---|---|---|---|---|---|---|---|
-| Circle | 197 | 0.173 | 0.005 | 0.066 | 0.01 | 0.005 | 0.096 | 0.041 | 0.0 | 0.025 |
-| Tether | 61 | 0.23 | 0.279 | 0.246 | 0.016 | 0.18 | 0.41 | 0.279 | 0.033 | 0.016 |
+| Circle | 197 | 0.178 | 0.0 | 0.066 | 0.01 | 0.005 | 0.102 | 0.036 | 0.0 | 0.025 |
+| Tether | 61 | 0.246 | 0.279 | 0.295 | 0.016 | 0.197 | 0.475 | 0.279 | 0.033 | 0.033 |
 
 ## Tether official texts by phase
 Phases are drawn from Tether's event timeline; Circle's issuer texts all fall after E3, so Circle is not phased (decision D6).
 | phase | n_segments | AUTH_STATE | AUTH_PROF | AUTH_MARKET | AUTH_TECH | AUTH_POLITICAL | SELF_ASSURANCE | HEDGE_PENDING | REBUTTAL | CONFIRMATION |
 |---|---|---|---|---|---|---|---|---|---|---|
-| P1 | 16 | 0.438 | 0.0 | 0.25 | 0.0 | 0.375 | 0.312 | 0.25 | 0.0 | 0.0 |
-| P2 | 17 | 0.412 | 0.0 | 0.412 | 0.059 | 0.294 | 0.176 | 0.294 | 0.059 | 0.0 |
-| P3 | 17 | 0.0 | 0.412 | 0.118 | 0.0 | 0.0 | 0.824 | 0.471 | 0.0 | 0.059 |
-| P4 | 11 | 0.0 | 0.909 | 0.182 | 0.0 | 0.0 | 0.273 | 0.0 | 0.091 | 0.0 |
+| P1 | 16 | 0.5 | 0.0 | 0.312 | 0.0 | 0.438 | 0.5 | 0.312 | 0.0 | 0.0 |
+| P2 | 17 | 0.412 | 0.0 | 0.412 | 0.059 | 0.294 | 0.235 | 0.294 | 0.059 | 0.0 |
+| P3 | 17 | 0.0 | 0.412 | 0.176 | 0.0 | 0.0 | 0.824 | 0.412 | 0.0 | 0.059 |
+| P4 | 11 | 0.0 | 0.909 | 0.273 | 0.0 | 0.0 | 0.273 | 0.0 | 0.091 | 0.091 |
 
 ## CEO posts on X (reported separately)
 | company | doc_id | n_segments | AUTH_STATE | AUTH_PROF | AUTH_MARKET | AUTH_TECH | AUTH_POLITICAL | SELF_ASSURANCE | HEDGE_PENDING | REBUTTAL | CONFIRMATION |

diff --git a/analysis/adjudication.md b/analysis/adjudication.md
@@ -15,3 +15,6 @@ Each of the 29 segment-code disagreements was sorted into three groups; the rese
 2. **The human reference was shaped by feedback.** After the development round the researcher received feedback stressing that most paragraphs carry no code. The blind codes then swung from over-coding (CONFIRMATION 13/20 in development) to under-coding (AUTH_MARKET, AUTH_POLITICAL, CONFIRMATION 0/30). Most disagreements are human omissions, so the original kappa understates how well the LLM follows the codebook.
 3. **Three definitional grey zones remain** (group C above): institutional adoption, "step forward" audit framing, and general statements about trust.
 4. **LLM**: a single model (DeepSeek), one run, temperature 0; no second model was compared.
+
+## Which codes the analysis uses (decided 2026-11-22)
+The descriptive analysis (`06_analysis.py`, default) uses the **LLM codes for every segment**, so all 271 issuer segments are coded by one consistent coder under codebook v0.2. The researcher's blind codes (original and adjudicated) serve only to validate the LLM. `06_analysis.py --use-human` reproduces the alternative in which adjudicated human codes replace the LLM codes for the 30 validation segments; the main patterns are the same under both.
